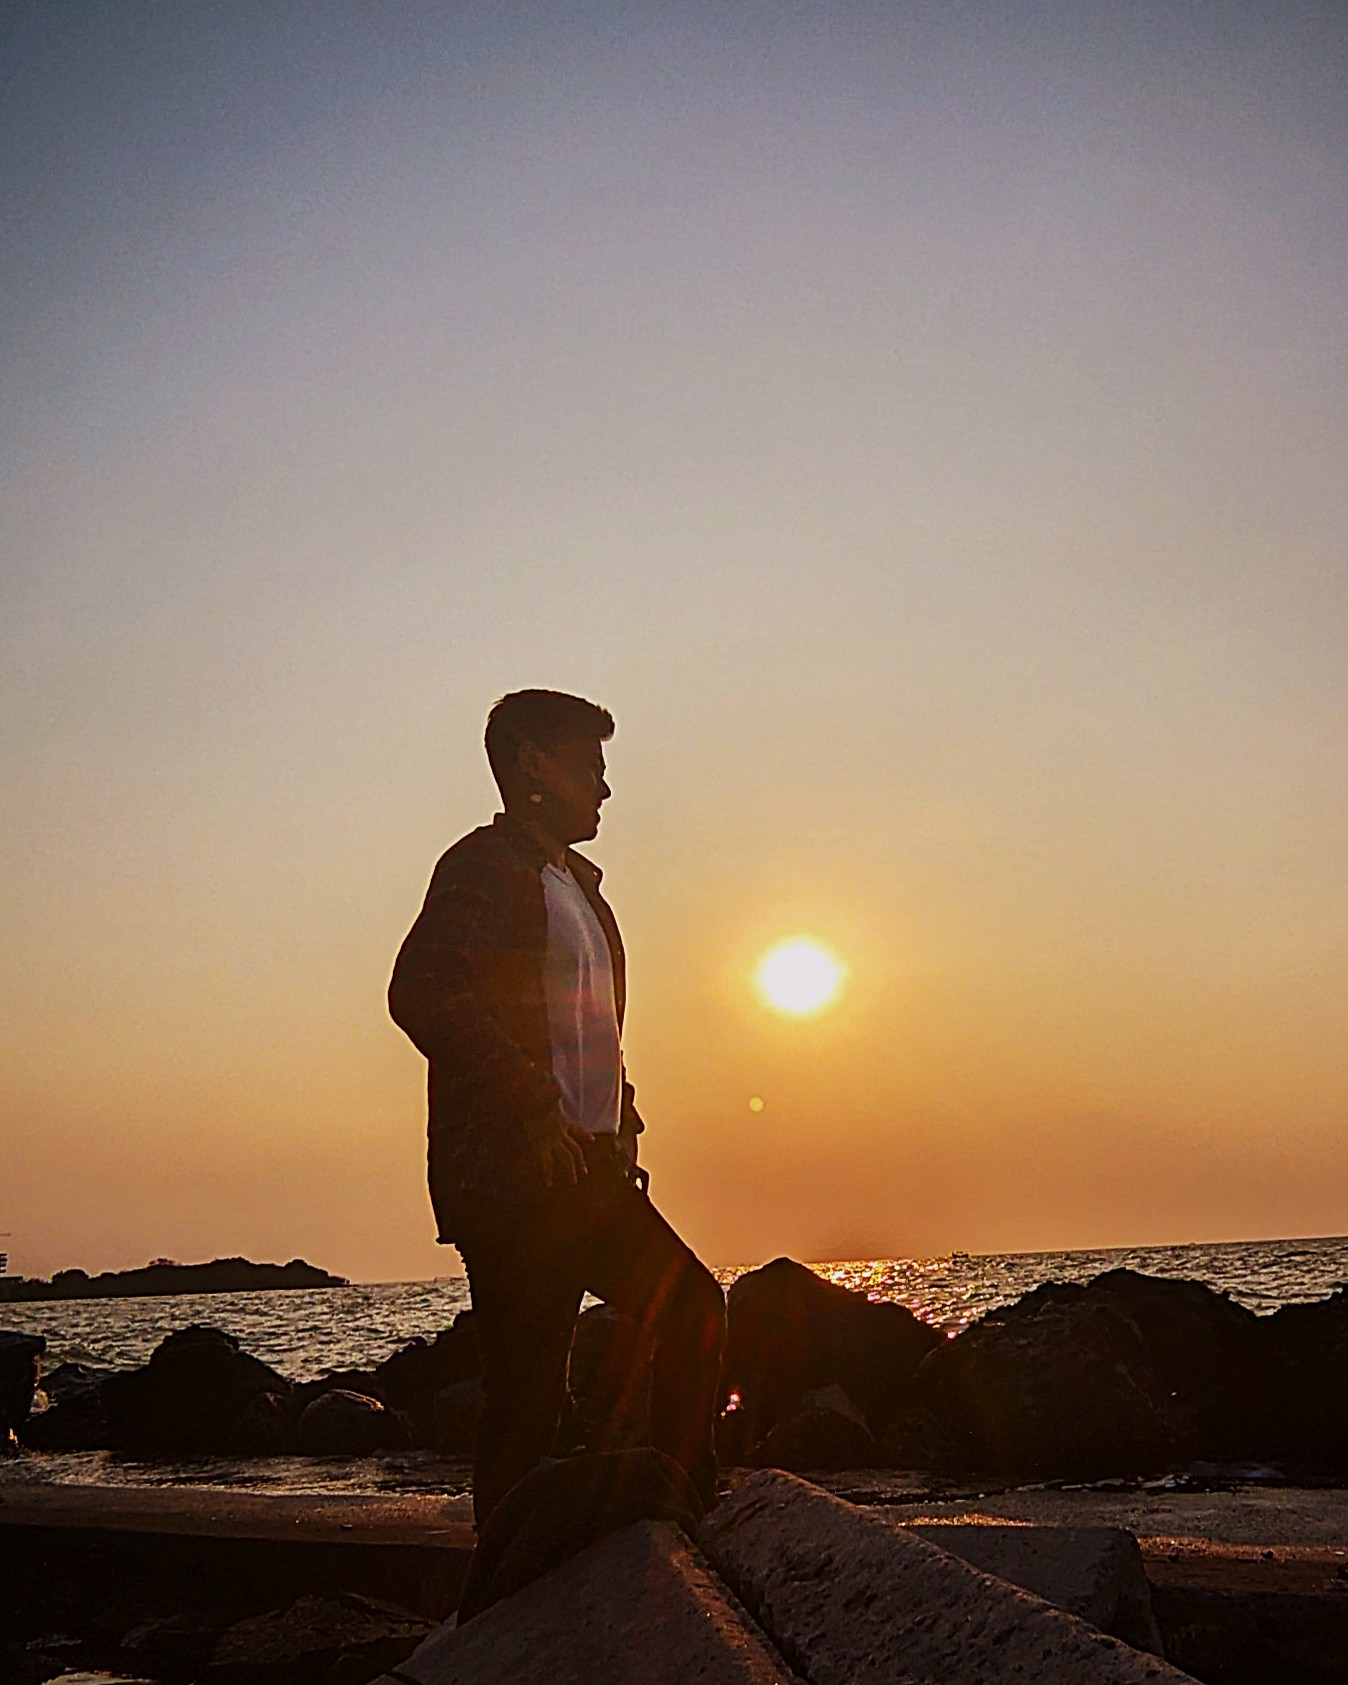
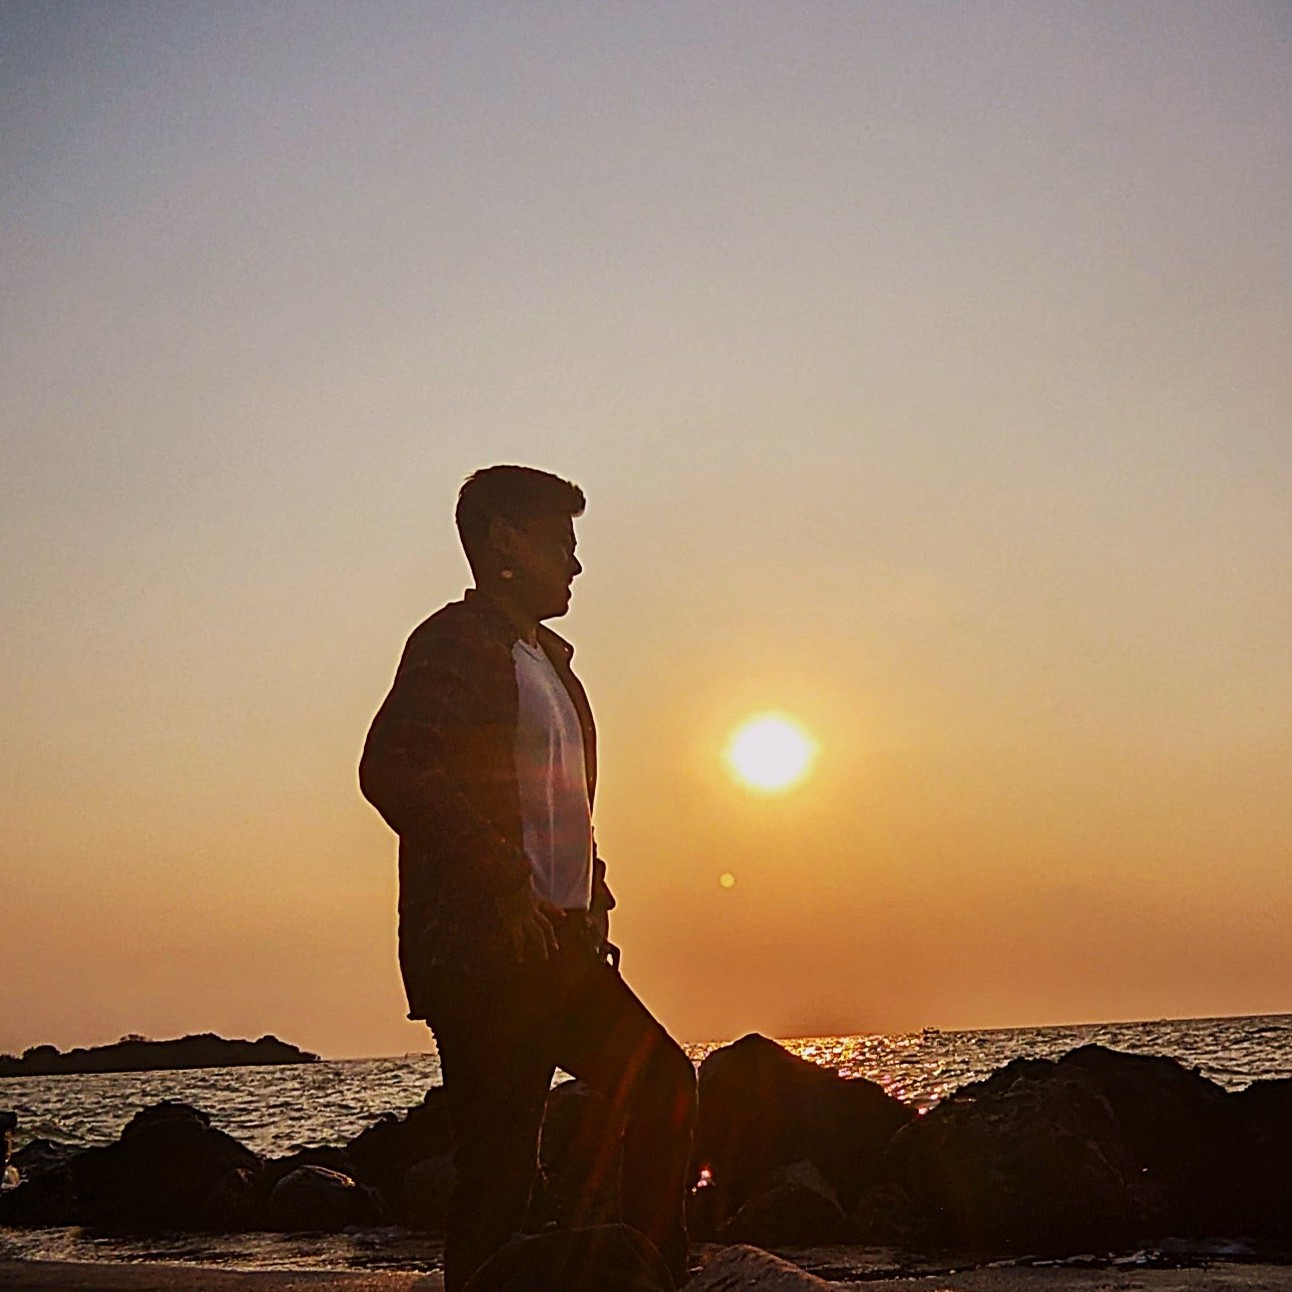
fix work page

diff --git a/src/components/pageHome/work/Work.jsx b/src/components/pageHome/work/Work.jsx
@@ -1,7 +1,10 @@
 import React from "react";
 import "./work.css";
+
 import Picture from "../../../assets/a_raccoon.png";
-import { Link } from "react-router-dom";
+import elearning from "../../../assets/elearning-naga.png";
+import cuaca from "../../../assets/cuaca-app.jpg";
+import lingua from "../../../assets/lingua.jpg";
 
 const Work = () => {
   return (
@@ -80,7 +83,9 @@ const Work = () => {
                   Website E-learning dibuat dengan framework Laravel 11 dan
                   library CSS seperti tailwind.
                 </p>
-                <img className="accordion-image" src={Picture} />
+                <div className="accordion-container">
+                  <img className="accordion-image" src={elearning} />
+                </div>
                 <a
                   className="workLinked"
                   href="https://github.com/AryaDwiSetiawan24/Projek_RPL_E-learning.git"
@@ -101,8 +106,14 @@ const Work = () => {
                   Aplikasi dapat menampilkan cuaca terkini berdasarkan lokasi
                   yang diinputkan.
                 </p>
-                <img className="accordion-image" src={Picture} />
-                <a className="workLinked" href="#">
+                <div className="accordion-container">
+                  <img className="accordion-image" src={cuaca} />
+                </div>
+                <a
+                  className="workLinked"
+                  href="https://drive.google.com/file/d/10lEvgdFiE20KppyTHH8WsPZAsHzyK-uW/view?usp=sharing"
+                  target="_blank"
+                >
                   <i class="uil uil-arrow-up-left"></i> View Project
                 </a>
               </div>
@@ -118,8 +129,14 @@ const Work = () => {
                   Aplikasi ini dibuat dengan menggunakan figma dan prototipe
                   aplikasi kursus bahasa.
                 </p>
-                <img className="accordion-image" src={Picture} />
-                <a className="workLinked" href="#">
+                <div className="accordion-container">
+                  <img className="accordion-image" src={lingua} />
+                </div>
+                <a
+                  className="workLinked"
+                  href="https://drive.google.com/file/d/1tgLank7VUq8gzO3pUqljP-PK0te1OxCW/view?usp=sharing"
+                  target="_blank"
+                >
                   <i class="uil uil-arrow-up-left"></i> View Project
                 </a>
               </div>

diff --git a/src/components/pageHome/work/work.css b/src/components/pageHome/work/work.css
@@ -119,6 +119,7 @@
   }
 
   details {
+    position: relative;
     display: flex;
     flex-direction: row;
     background: #d2d2d286;
@@ -162,8 +163,10 @@
 }
 
 .details-content-wrapper {
+  position: relative;
   padding: 1.5rem 1em;
   width: min(30vw, 600px);
+  height: 33rem;
 
   p {
     font-size: .9em;
@@ -209,11 +212,22 @@
   width: min(30vw, 600px);
 }
 
+.accordion-container {
+  display: flex;
+  height: 70%;
+  width: 100%;
+  overflow: hidden;
+}
+
 .accordion-image {
-  max-width: 80%;
-  height: auto;
+  position: relative;
+  object-fit: contain;
+  left: -10%;
+  height: 100%;
+  width: 100%;
   transition: all 0.5s ease;
 }
+
 
 .accordion-image:hover {
   transform: translateY(-7px);

diff --git a/src/components/pageHome/footer/footer.css b/src/components/pageHome/footer/footer.css
@@ -61,15 +61,16 @@
     bottom: 5px;
     left: 50%;
     transform: translateX(-50%);
-    background-color: var(--text-color);
-    color: white;
+    background-color: var(--primary-color);
+    /* opacity: 80%; */
+    color: var(--text-color);
     padding: 10px;
     border-radius: 20px;
+    border: 1px solid var(--text-color);
     font-size: 16px;
     text-align: center;
     transition: opacity 0.5s ease-in-out;
 }
-
 
 .footerSosmed {
     display: flex;

diff --git a/src/components/pageHome/footer/Footer.jsx b/src/components/pageHome/footer/Footer.jsx
@@ -2,7 +2,7 @@ import React, { useState } from "react";
 import { Link } from "react-router-dom";
 import { CopyToClipboard } from "react-copy-to-clipboard";
 
-import Picture from "../../../assets/a_raccoon.png";
+import Picture from "../../../assets/foto-pantai.jpg";
 import "./footer.css";
 
 const Footer = () => {

diff --git a/src/components/pageHome/hero/Hero.jsx b/src/components/pageHome/hero/Hero.jsx
@@ -1,7 +1,7 @@
 import React from "react";
 import { motion, useScroll, useTransform } from "framer-motion";
 
-import profilePicture from "../../../assets/a_raccoon.png";
+import profilePicture from "../../../assets/foto-pantai.jpg";
 import "./Hero.css";
 
 const Hero = () => {
